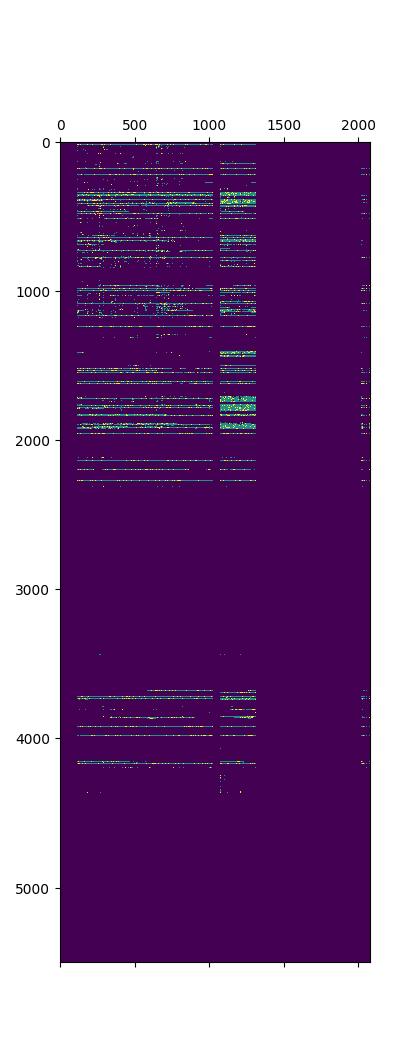
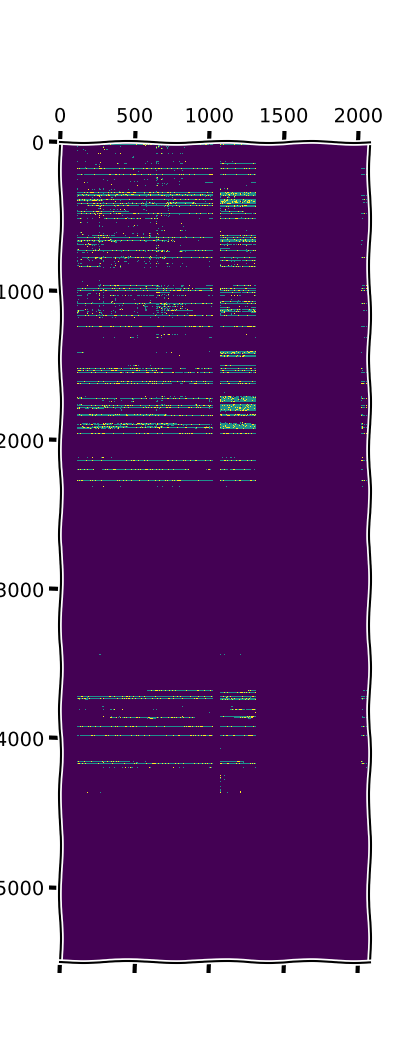
playing with knn

diff --git a/playground.py b/playground.py
@@ -20,11 +20,8 @@ classificator = kNN(example, user_sim.similarity, item_sim.similarity, user_sim.
 classificator.classify(np.array([[1,2],[2,0],[2,5],[4,1]]),axis=0)
 
 user = pickle.load(open("user_pearson_sim.pyc", "rb"))
-user = np.nan_to_num(user)
 mean = pickle.load(open("mean_user_pearson_sim.pyc", "rb"))
-mean = np.nan_to_num(mean)
 item = pickle.load(open("item_pearson_sim.pyc", "rb"))
-item = np.nan_to_num(item)
 from sklearn import model_selection as ms
 
 from utility.matrices import convert_sparse_coo_to_full_matrix
@@ -39,6 +36,6 @@ X_train_raw[:,2] += 1
 
 data = convert_sparse_coo_to_full_matrix(X_train_raw).toarray()
 
-useful = kNN(data, user, item, mean, k=2)
+useful = kNN(data, user, item, mean, k=5)
 y_hat = useful.classify(X_remaining_raw[:,(0,1)],axis=0)
-rmse_knn = accuracy.rmse(X_remaining_raw[:,2], y_hat-1)
+rmse_knn = accuracy.rmse(X_remaining_raw[:,2], y_hat)

diff --git a/knn/knn.py b/knn/knn.py
@@ -49,8 +49,7 @@ class kNN:
             ratings = np.array(ratings)
             num = np.sum(sim*ratings,axis=1)
             denom = np.sum(np.abs(sim),axis=1)
-            result = np.divide(num,denom)
-            result = np.nan_to_num(result)
+            result = np.divide(num,denom+10e-9)
             return np.add(self.row_mean[coords[:,0]].reshape(1,-1), result.reshape(1,-1))
 
 

diff --git a/datavisualisation.py b/datavisualisation.py
@@ -15,6 +15,8 @@ from models.matrix_factorization import UMF
 
 from utility.matrices import convert_sparse_coo_to_full_matrix
 
+plt.xkcd()
+
 X_raw = np.genfromtxt(os.path.join("data", "train.csv"), delimiter=",", dtype=np.int)
 X_raw[:,2] = 1
 X_raw = convert_sparse_coo_to_full_matrix(X_raw).toarray()
